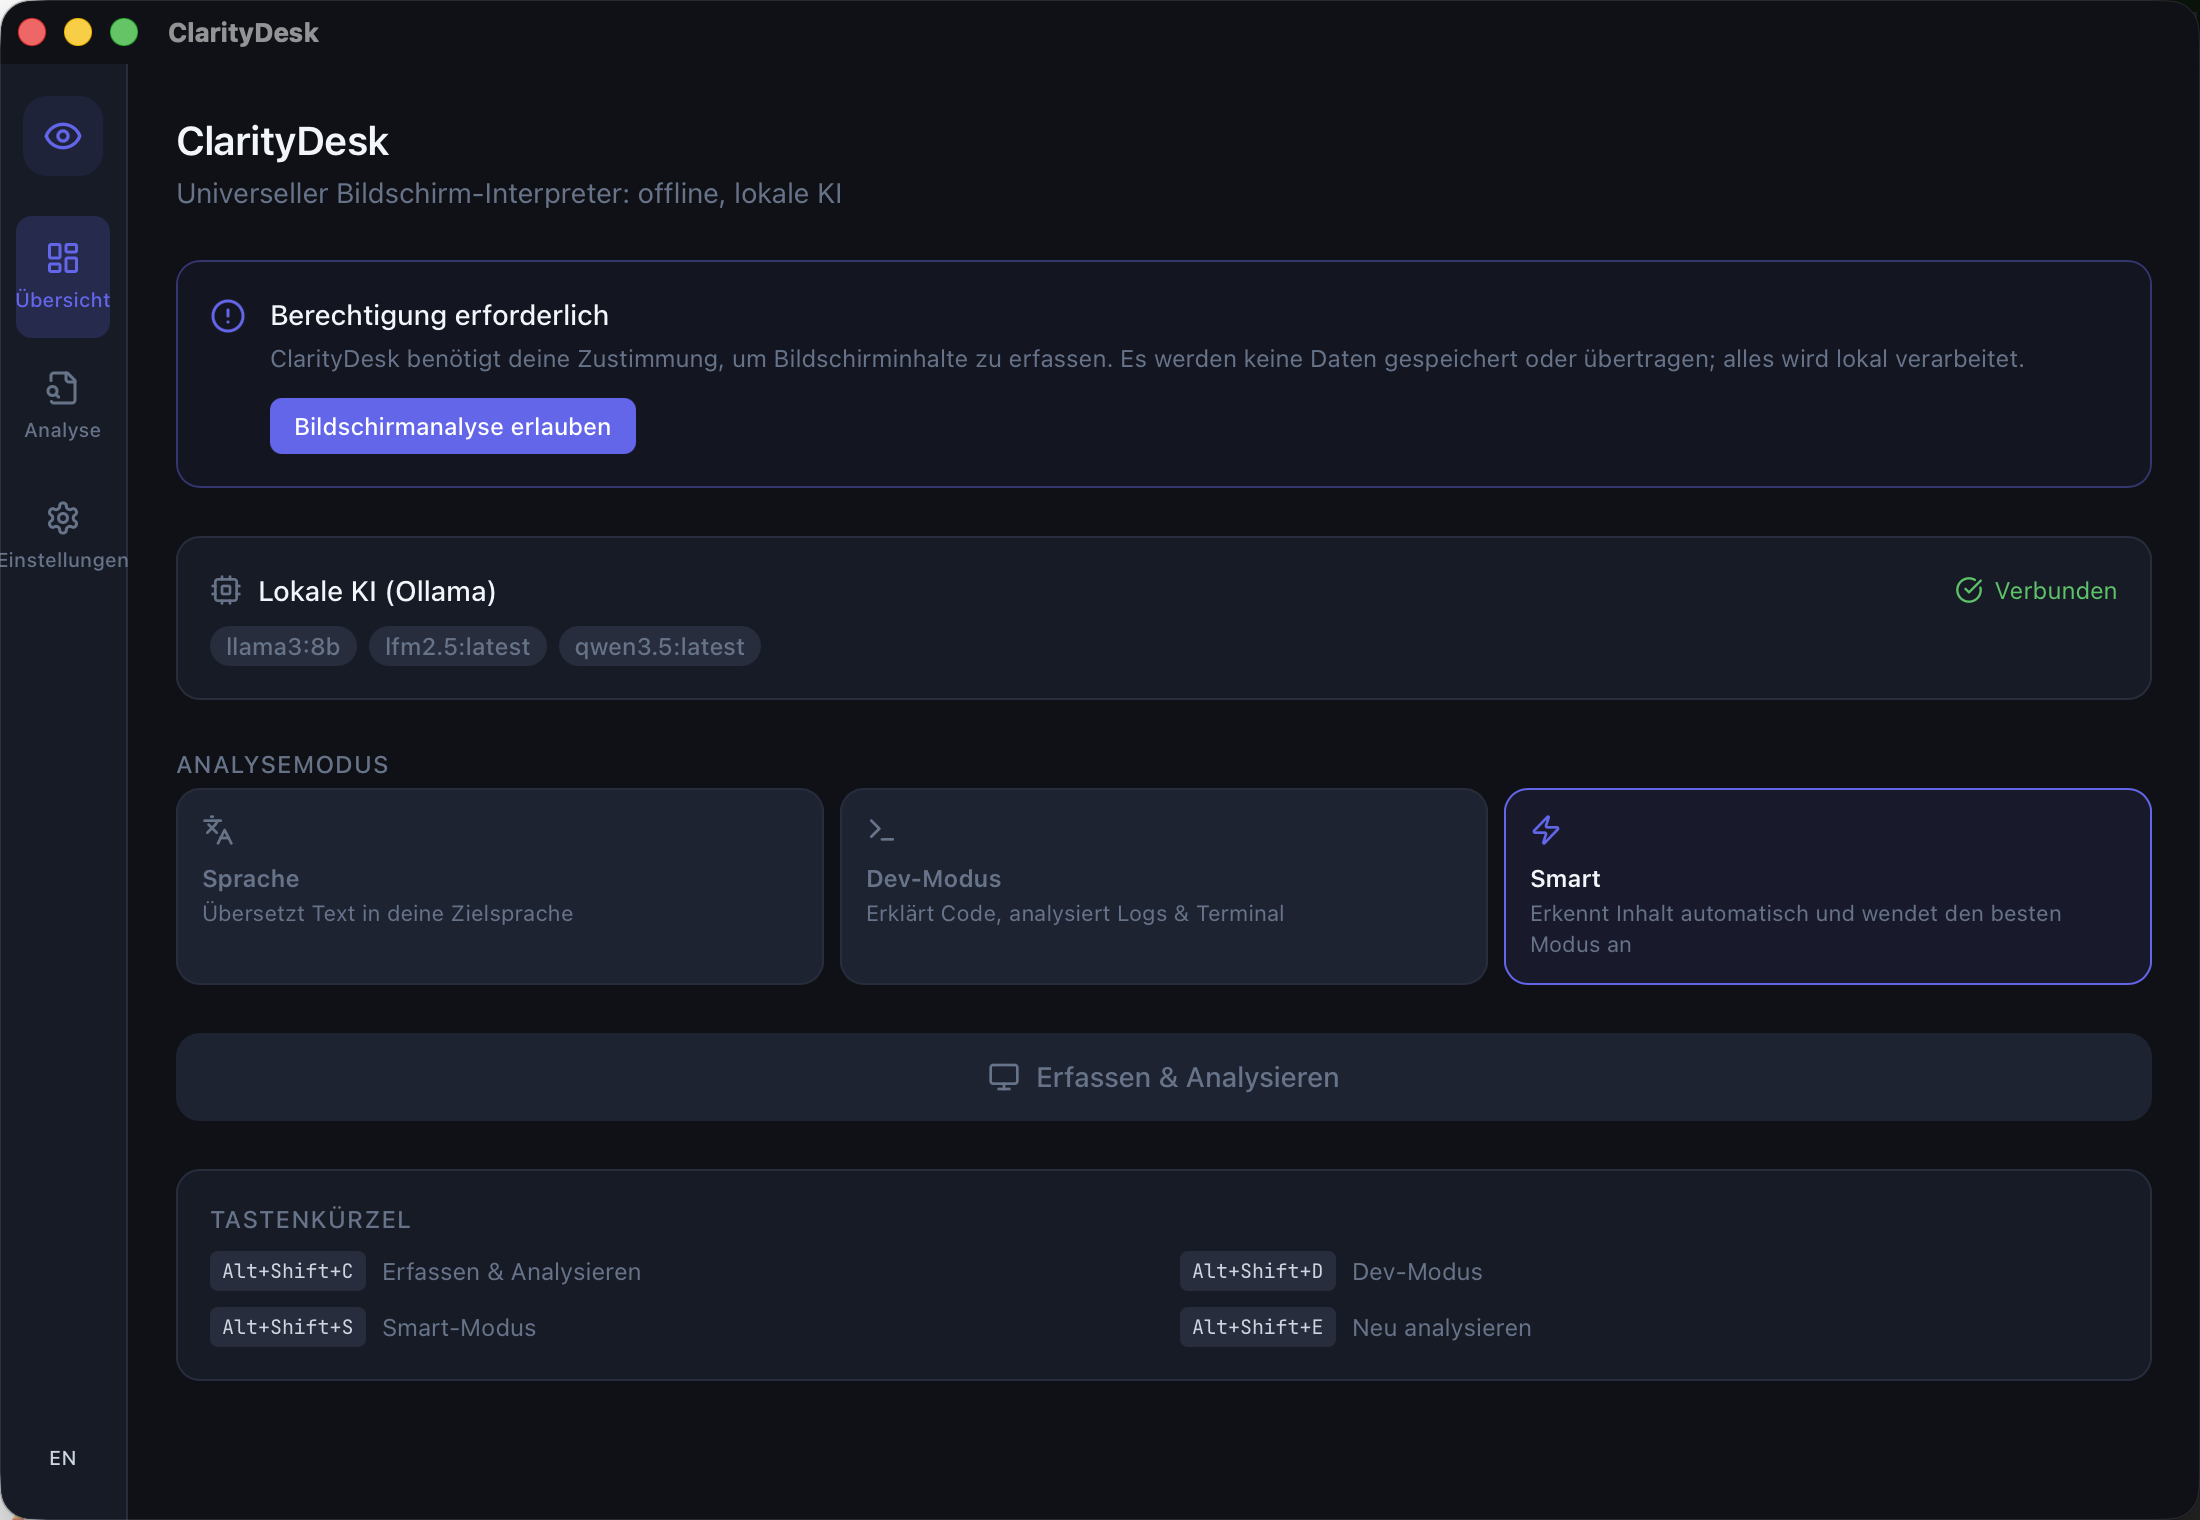
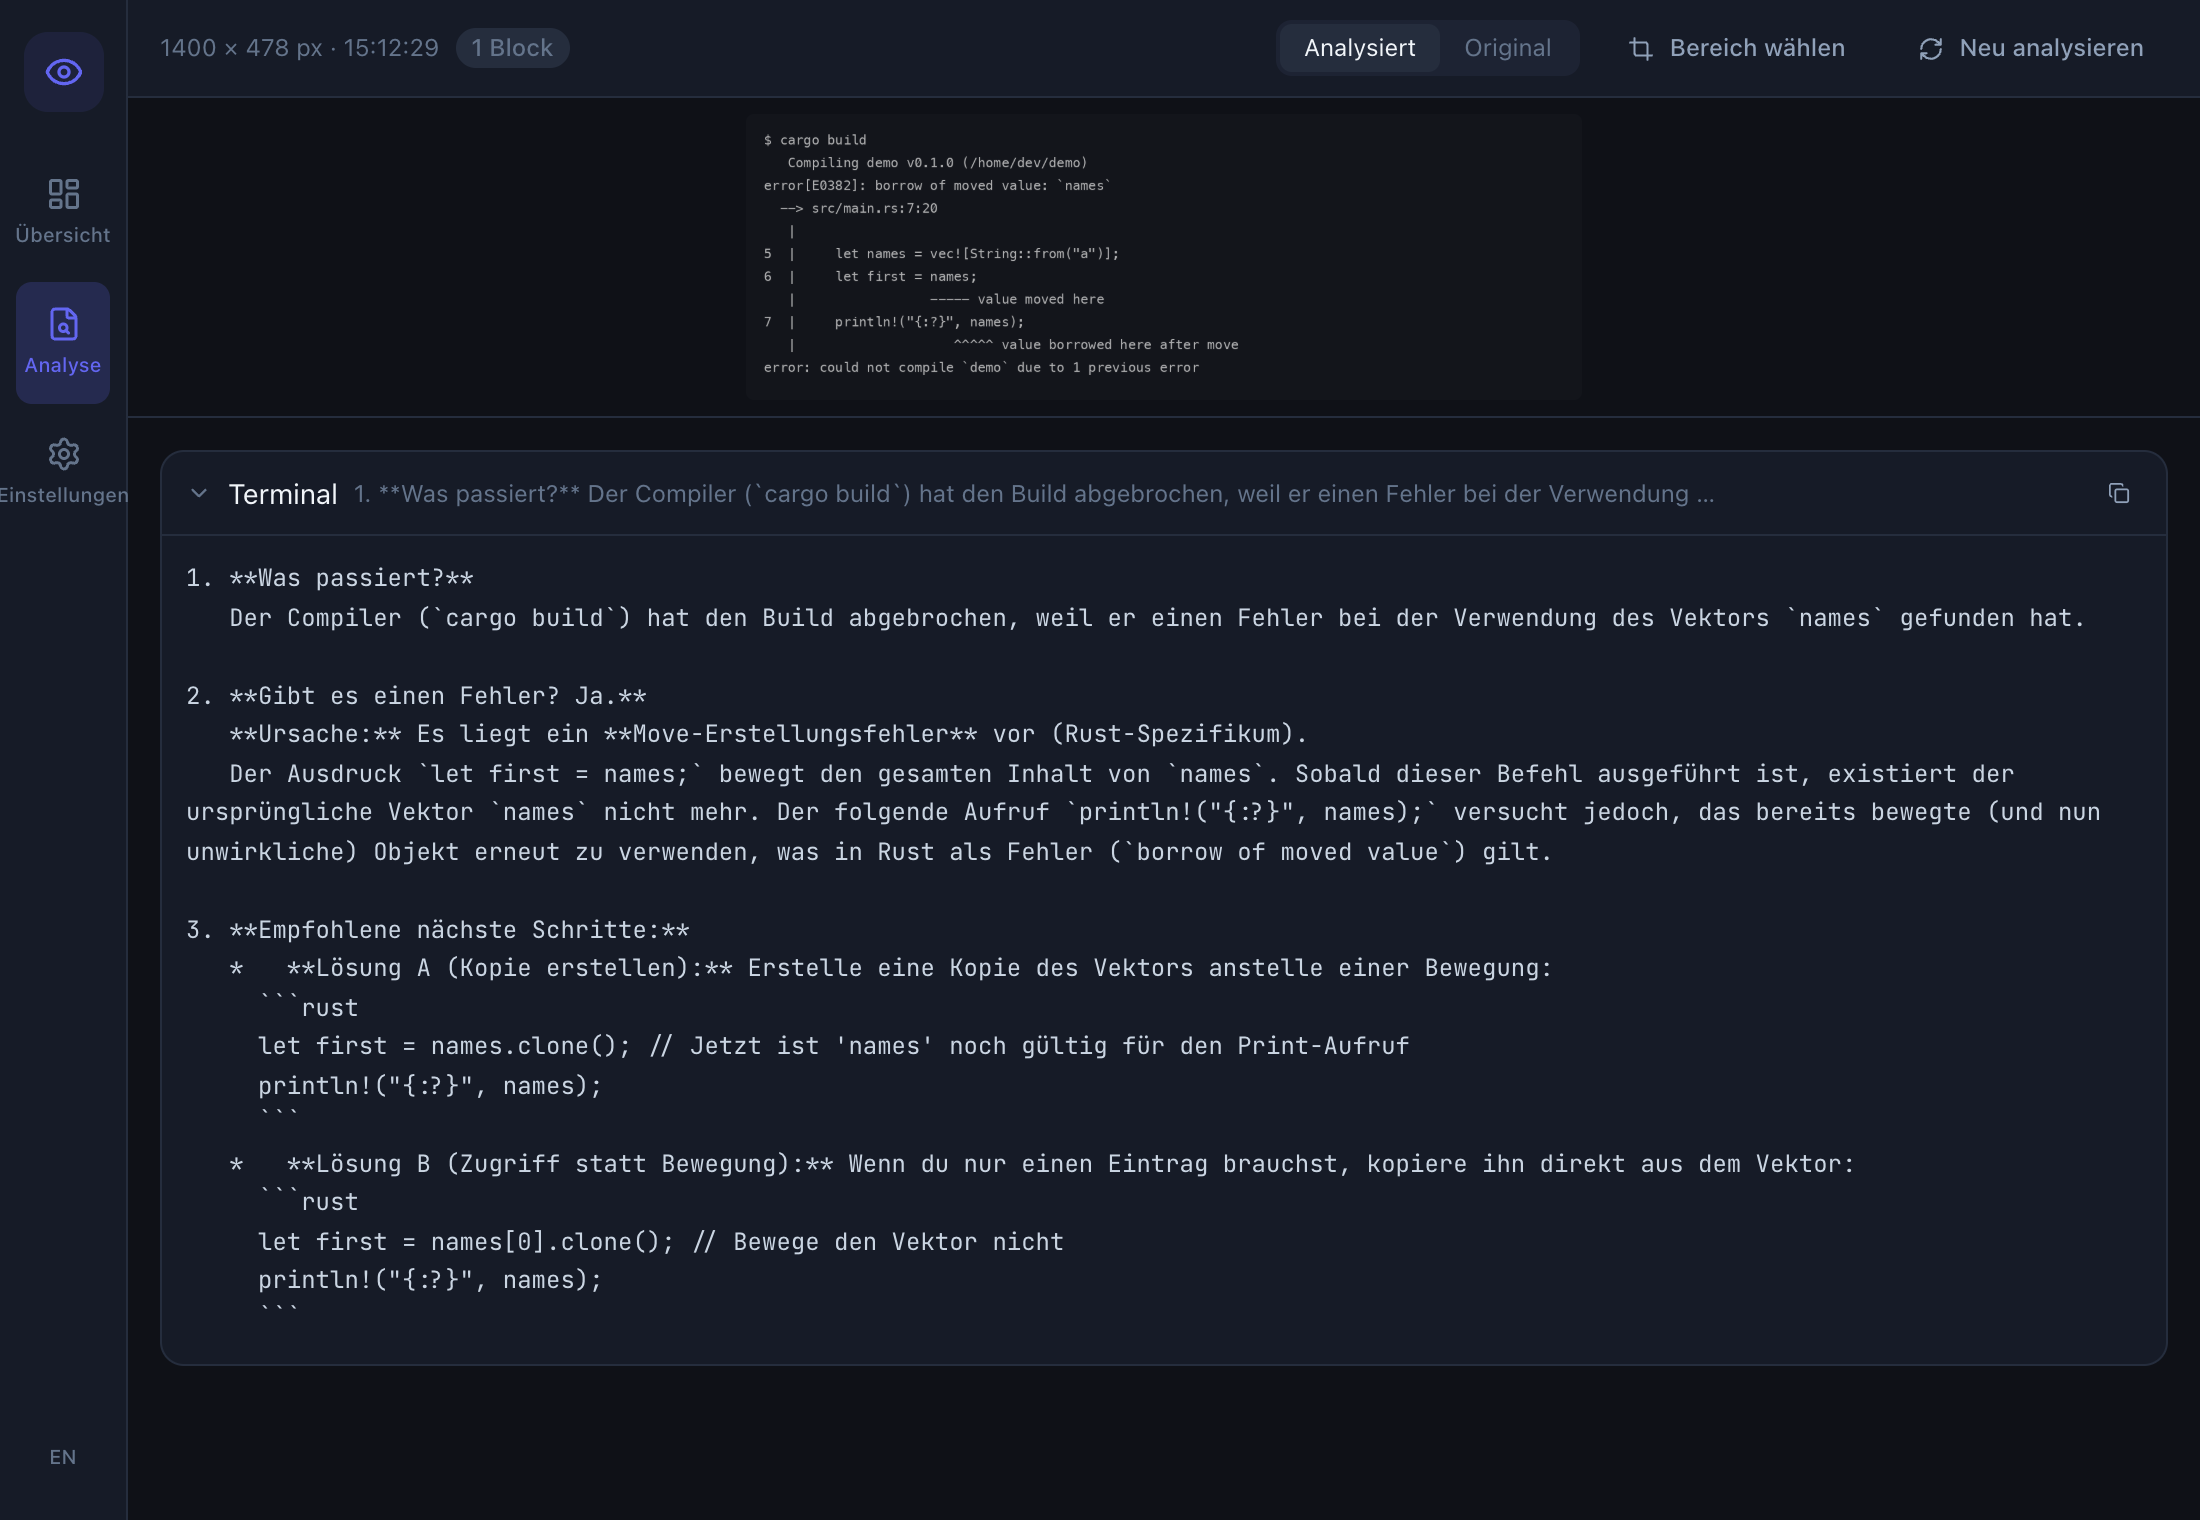
fix: signed macOS bundle, permission check, analysis view crash
Screen Recording could never be granted because the bundle was only
linker-signed under a random identity; a missing permission showed as
no text found; and the analysis view crashed on string block types.

Claude-Session: https://claude.ai/code/session_01SdhesbqRtbwirA2Q2eywcJ

diff --git a/frontend/src/lib/tauri.ts b/frontend/src/lib/tauri.ts
@@ -32,15 +32,22 @@ export interface CaptureFrame {
   source: CaptureSource;
 }
 
+// serde's default enum form: unit variants arrive as a plain string ("terminal"),
+// the one variant with data as an object ({"code": {"lang_hint": "rust"}}).
 export type BlockType =
-  | { code: { langHint: string | null } }
-  | { terminal: null }
-  | { log: null }
-  | { paragraph: null }
-  | { header: null }
-  | { table: null }
-  | { ui: null }
-  | { unknown: null };
+  | { code: { lang_hint: string | null } }
+  | "terminal"
+  | "log"
+  | "paragraph"
+  | "header"
+  | "table"
+  | "ui"
+  | "unknown";
+
+/** "code", "terminal", ...; never throws, whichever form arrives. */
+export function blockTypeKey(bt: BlockType): string {
+  return typeof bt === "string" ? bt : "code";
+}
 
 export interface TextBlock {
   id: string;
@@ -152,24 +159,16 @@ export const api = {
 
 // ── Helpers ──────────────────────────────────────────────────────────────────
 
+const BLOCK_LABELS: Record<string, string> = {
+  code: "Code", terminal: "Terminal", log: "Log", paragraph: "Text",
+  header: "Header", table: "Table", ui: "UI",
+};
+
 export function blockTypeLabel(bt: BlockType): string {
-  if ("code" in bt) return "Code";
-  if ("terminal" in bt) return "Terminal";
-  if ("log" in bt) return "Log";
-  if ("paragraph" in bt) return "Text";
-  if ("header" in bt) return "Header";
-  if ("table" in bt) return "Table";
-  if ("ui" in bt) return "UI";
-  return "Unknown";
+  return BLOCK_LABELS[blockTypeKey(bt)] ?? "Unknown";
 }
 
 export function blockTypeBadgeClass(bt: BlockType): string {
-  if ("code" in bt) return "badge-code";
-  if ("terminal" in bt) return "badge-terminal";
-  if ("log" in bt) return "badge-log";
-  if ("paragraph" in bt) return "badge-text";
-  if ("header" in bt) return "badge-header";
-  if ("table" in bt) return "badge-table";
-  if ("ui" in bt) return "badge-ui";
-  return "badge-text";
+  const key = blockTypeKey(bt);
+  return key === "paragraph" || key === "unknown" ? "badge-text" : `badge-${key}`;
 }

diff --git a/frontend/src/components/Analysis/AnalysisView.tsx b/frontend/src/components/Analysis/AnalysisView.tsx
@@ -1,15 +1,20 @@
-import { useState } from "react";
+import { useEffect, useState } from "react";
 import { RefreshCw, Copy, ChevronDown, ChevronRight, Loader2, ImageOff, Crop } from "lucide-react";
 import { RegionPicker } from "./RegionPicker";
 import clsx from "clsx";
 import { useClarityStore } from "../../stores/clarityStore";
-import { AnalyzedBlock, blockTypeBadgeClass, blockTypeLabel } from "../../lib/tauri";
+import { AnalyzedBlock, blockTypeBadgeClass, blockTypeKey, blockTypeLabel } from "../../lib/tauri";
 import { useT } from "../../lib/i18n";
 
 export function AnalysisView() {
   const { lastFrame, lastResult, isAnalyzing, analyze, analyzeRegion } = useClarityStore();
   const [picking, setPicking] = useState(false);
   const [expandedBlocks, setExpandedBlocks] = useState<Set<string>>(new Set());
+  // One or two answers are opened right away; hiding the only result behind a click helps nobody.
+  useEffect(() => {
+    const blocks = lastResult?.blocks ?? [];
+    setExpandedBlocks(new Set(blocks.length <= 2 ? blocks.map((b) => b.blockId) : []));
+  }, [lastResult]);
   const [tab, setTab] = useState<"original" | "output">("output");
   const [copied, setCopied] = useState<string | null>(null);
   const t = useT();
@@ -166,7 +171,7 @@ function BlockCard({
   const label = blockTypeLabel(block.blockType);
   const badgeClass = blockTypeBadgeClass(block.blockType);
   const content = tab === "output" ? block.output : block.original;
-  const isCode = "code" in block.blockType || "terminal" in block.blockType || "log" in block.blockType;
+  const isCode = ["code", "terminal", "log"].includes(blockTypeKey(block.blockType));
 
   const preview = content.length > 120 ? content.slice(0, 120) + "…" : content;
 

diff --git a/crates/cd-core/src/capture/mod.rs b/crates/cd-core/src/capture/mod.rs
@@ -14,6 +14,44 @@ fn capture_error(error: impl std::fmt::Display) -> CdError {
     CdError::Capture(error.to_string())
 }
 
+const PERMISSION_MISSING: &str = "Screen Recording is not allowed for ClarityDesk. Turn it on in System Settings, Privacy & Security, Screen & System Audio Recording, then restart ClarityDesk.";
+
+#[cfg(target_os = "macos")]
+#[link(name = "CoreGraphics", kind = "framework")]
+extern "C" {
+    fn CGPreflightScreenCaptureAccess() -> bool;
+    fn CGRequestScreenCaptureAccess() -> bool;
+}
+
+/// Without the Screen Recording permission macOS does not refuse a capture, it
+/// returns a blank picture, which read as "no text found". Asking first also puts
+/// ClarityDesk into the list in System Settings.
+#[cfg(target_os = "macos")]
+fn ensure_permission() -> Result<()> {
+    // SAFETY: both functions take no arguments and only query or request the permission.
+    let allowed = unsafe { CGPreflightScreenCaptureAccess() || CGRequestScreenCaptureAccess() };
+    if allowed {
+        Ok(())
+    } else {
+        Err(CdError::Capture(PERMISSION_MISSING.into()))
+    }
+}
+
+#[cfg(not(target_os = "macos"))]
+fn ensure_permission() -> Result<()> {
+    Ok(())
+}
+
+/// A capture where every pixel has the same colour is what a denied permission
+/// produces on some systems; it is never a real screen.
+fn reject_blank(rgba: &[u8]) -> Result<()> {
+    let first = rgba.get(..4).unwrap_or(&[]);
+    if rgba.chunks_exact(4).all(|px| px == first) {
+        return Err(CdError::Capture(PERMISSION_MISSING.into()));
+    }
+    Ok(())
+}
+
 /// xcap and this crate may link different `image` versions, so pixels cross over as raw bytes.
 fn to_png(width: u32, height: u32, rgba: Vec<u8>) -> Result<Vec<u8>> {
     let mut png = Vec::new();
@@ -24,6 +62,9 @@ fn to_png(width: u32, height: u32, rgba: Vec<u8>) -> Result<Vec<u8>> {
 }
 
 fn frame_from(width: u32, height: u32, rgba: Vec<u8>, source: CaptureSource) -> Result<CaptureFrame> {
+    if !matches!(source, CaptureSource::Region { .. }) {
+        reject_blank(&rgba)?;
+    }
     let png = to_png(width, height, rgba)?;
     Ok(CaptureFrame::new(png, width, height, source))
 }
@@ -44,6 +85,7 @@ pub fn list_screens() -> Result<Vec<ScreenInfo>> {
 }
 
 pub fn capture_screen(index: usize) -> Result<CaptureFrame> {
+    ensure_permission()?;
     let monitor = Monitor::all()
         .map_err(capture_error)?
         .into_iter()
@@ -66,6 +108,7 @@ pub fn capture_primary() -> Result<CaptureFrame> {
 /// The front window of whatever app has focus, together with that app's name,
 /// which picks the app profile. `exclude_pid` keeps ClarityDesk from capturing itself.
 pub fn capture_active_window(exclude_pid: u32) -> Result<(CaptureFrame, String)> {
+    ensure_permission()?;
     let window = Window::all()
         .map_err(capture_error)?
         .into_iter()
@@ -117,8 +160,16 @@ mod tests {
     use super::*;
 
     fn frame(w: u32, h: u32) -> CaptureFrame {
-        let pixels = vec![200u8; (w * h * 4) as usize];
+        let mut pixels = vec![200u8; (w * h * 4) as usize];
+        pixels[0] = 10; // not blank
         frame_from(w, h, pixels, CaptureSource::FullScreen { index: 0 }).unwrap()
+    }
+
+    #[test]
+    fn a_blank_capture_is_reported_as_missing_permission() {
+        let blank = vec![40u8; 64 * 64 * 4];
+        let error = frame_from(64, 64, blank, CaptureSource::FullScreen { index: 0 }).unwrap_err();
+        assert!(error.to_string().contains("Screen Recording"));
     }
 
     #[test]

diff --git a/crates/cd-core/src/models/analysis.rs b/crates/cd-core/src/models/analysis.rs
@@ -119,3 +119,4 @@ impl AnalysisResult {
         }
     }
 }
+

diff --git a/CHANGELOG.md b/CHANGELOG.md
@@ -17,6 +17,9 @@ A review found that ClarityDesk could not do what its README promised. This rele
 - Every OCR paragraph went to the model on its own, one after the other, so a full screen took minutes and a compiler error was explained piece by piece. Blocks are merged into at most six prompts; in Dev mode the whole screen is one story. A real run on a Rust compiler error: one correct answer in about 5 seconds.
 - Explanations always came in English; they now come in the target language.
 - The release profile sat in `src-tauri/Cargo.toml`, where cargo ignores it, so releases were never built optimized. It now applies from the workspace root, without stripping build-time libraries.
+- The macOS app could never be granted Screen Recording. The bundle was only linker-signed, under a random identity (`claritydesk_app-<hash>`) instead of `ch.raystudio.claritydesk`, so the switch in System Settings never applied to the running app; the published 1.2.2 DMG has the same defect. The bundle is now ad-hoc signed as a whole (`signingIdentity: "-"`), under its bundle id and with its resources sealed.
+- Without the permission macOS returns a blank picture, which showed as "no text found". ClarityDesk now asks macOS first, which also lists it in System Settings, and reports the missing permission; an all-one-colour capture is reported the same way.
+- The analysis view crashed to an empty window as soon as a result had a block: the page tested `"code" in blockType`, but simple block types arrive as a string (`"terminal"`). This was never noticed because OCR had never returned a block. One or two answers now open right away.
 - The dashboard showed fixed hotkeys instead of the configured ones, the interface ignored the system language, and `frontend/package.json` still said 1.0.8.
 
 ### Added

diff --git a/ROADMAP.md b/ROADMAP.md
@@ -19,6 +19,7 @@ Several items were ticked here long before they worked. 1.3.0 made them real:
 - [ ] Session history panel (cleared on close, never persisted)
 - [ ] Tray icon with quick-capture shortcut
 - [ ] Choosing which screen the button captures on multi-monitor setups
+- [ ] Render the model's Markdown (bold, lists, code blocks) instead of showing it as plain text
 - [ ] Measuring OCR plus model quality on a fixed set of screenshots, like LifeSort does
 
 ## v0.3.0, Language & Model Expansion
